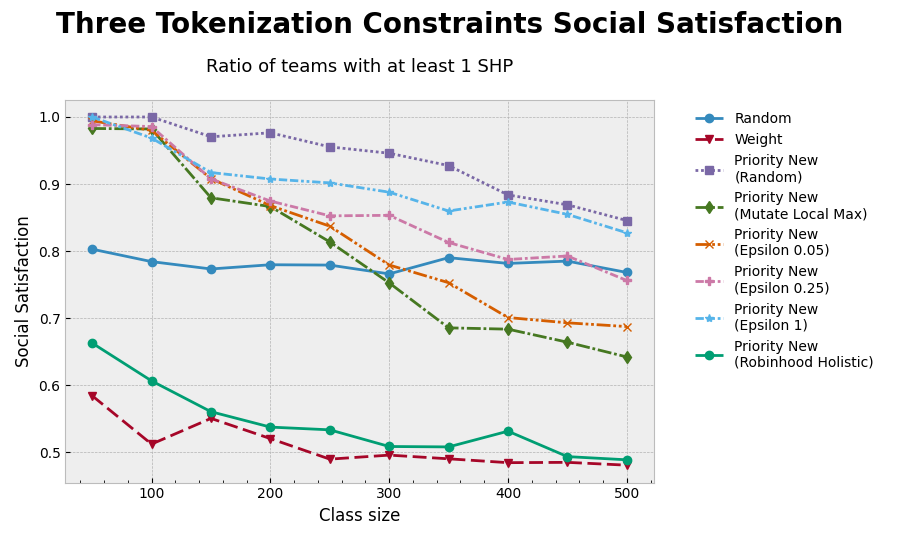
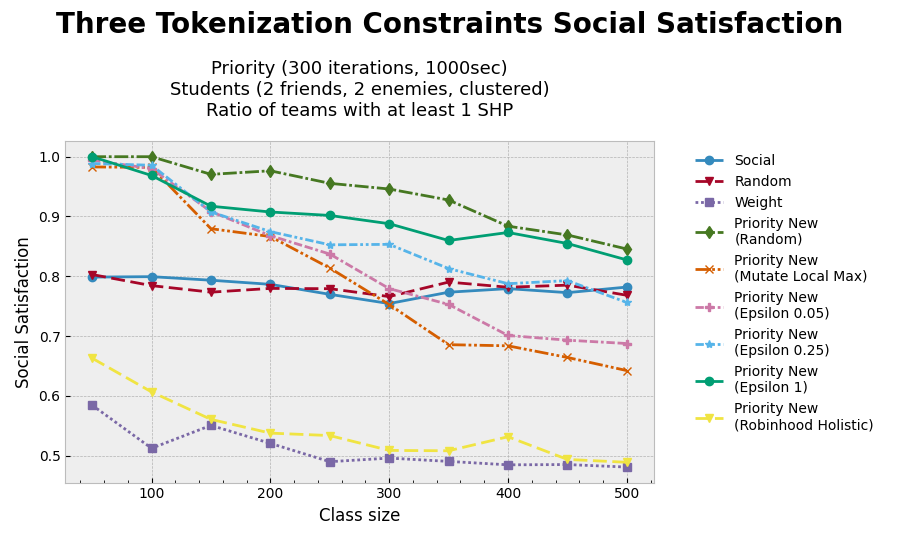
Add social line to graphs

diff --git a/benchmarking/runs/construct_graphs.py b/benchmarking/runs/construct_graphs.py
@@ -40,6 +40,7 @@ if __name__ == "__main__":
         "three-tokenization-priority",
     ]
     mutations = [
+        "social",
         "baseline",
         "mutate-local-max",
         "epsilon-0.05",
@@ -101,6 +102,7 @@ if __name__ == "__main__":
             if scenario == scenarios[0]
             else "Three Tokenization Constraints"
         )
+        graph_descriptions = "Priority (300 iterations, 1000sec)\nStudents (2 friends, 2 enemies, clustered)"
 
         save_graphs = True
 
@@ -111,7 +113,7 @@ if __name__ == "__main__":
                     y_label="Run time (seconds)",
                     title=f"{scenario_title} Runtimes",
                     data=list(graph_runtime_list),
-                    description=None,
+                    description=graph_descriptions,
                     y_lim=None,
                     x_lim=None,
                     num_minor_ticks=None,
@@ -126,7 +128,7 @@ if __name__ == "__main__":
                     y_label="Average Gini Index",
                     title=f"{scenario_title} Average Gini Index",
                     data=list(graph_avg_gini_list),
-                    description=None,
+                    description=graph_descriptions,
                     y_lim=GraphAxisRange(*metrics["AverageGiniIndex"].theoretical_range),
                     x_lim=None,
                     num_minor_ticks=None,
@@ -141,7 +143,7 @@ if __name__ == "__main__":
                     y_label="Minimum Gini Index",
                     title=f"{scenario_title} Minimum Gini",
                     data=list(graph_min_gini_list),
-                    description=None,
+                    description=graph_descriptions,
                     y_lim=GraphAxisRange(*metrics["MinGiniIndex"].theoretical_range),
                     x_lim=None,
                     num_minor_ticks=None,
@@ -156,7 +158,7 @@ if __name__ == "__main__":
                     y_label="Maximum Gini Index",
                     title=f"{scenario_title} Max Gini",
                     data=list(graph_max_gini_list),
-                    description=None,
+                    description=graph_descriptions,
                     y_lim=GraphAxisRange(*metrics["MaxGiniIndex"].theoretical_range),
                     x_lim=None,
                     num_minor_ticks=None,
@@ -171,7 +173,7 @@ if __name__ == "__main__":
                     y_label="Priorities Satisfied",
                     title=f"{scenario_title} Satisfied Priorities",
                     data=list(graph_priority_list),
-                    description=None,
+                    description=graph_descriptions,
                     y_lim=GraphAxisRange(*metrics["PrioritySatisfaction"].theoretical_range),
                     x_lim=None,
                     num_minor_ticks=None,
@@ -186,7 +188,7 @@ if __name__ == "__main__":
                     y_label="Social Satisfaction",
                     title=f"{scenario_title} Social Satisfaction",
                     data=list(graph_priority_list),
-                    description="Ratio of teams with at least 1 SHP",
+                    description=graph_descriptions+"\nRatio of teams with at least 1 SHP",
                     y_lim=None,
                     x_lim=None,
                     num_minor_ticks=None,
